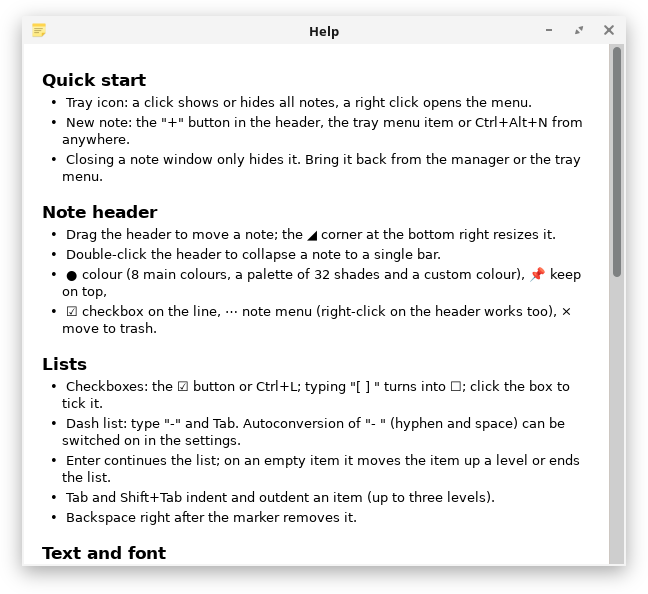
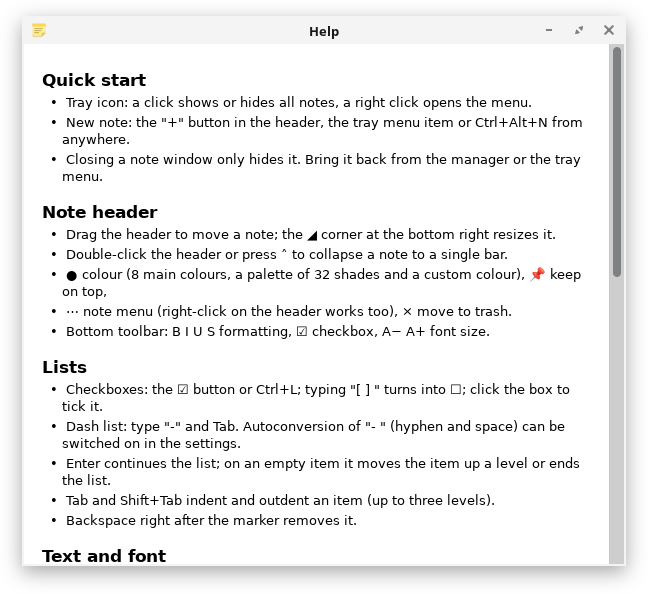
Note toolbar: formatting, checkbox and font size buttons at the bottom, collapse button in the header
The header keeps +, colour, pin, title, menu and close, plus a drawn chevron
that collapses and expands the note. The bottom toolbar (B I U S, checkbox,
A- A+) is dimmed and brightens on hover; the resize corner sits at its right.
Help, README and screenshots are updated.

diff --git a/indicator_sticky_notes/note_window.py b/indicator_sticky_notes/note_window.py
@@ -91,7 +91,7 @@ class NoteWindow(Gtk.Window):
         self.card.pack_start(self._build_bar(), False, False, 0)
         self.body = self._build_body()
         self.card.pack_start(self.body, True, True, 0)
-        self.grip = self._build_grip()
+        self.grip = self._build_footer()
         self.card.pack_start(self.grip, False, False, 0)
         self.add(self.card)
 
@@ -150,10 +150,6 @@ class NoteWindow(Gtk.Window):
         self.pin_button.connect("clicked", lambda _b: self.set_pinned(not self.note.pinned))
         bar.pack_start(self.pin_button, False, False, 0)
 
-        check = self._flat_button("☑", _("Чекбокс в строке (Ctrl+L)"))
-        check.connect("clicked", lambda _b: self.toggle_checklist())
-        bar.pack_start(check, False, False, 0)
-
         self.title_label = Gtk.Label(xalign=0, hexpand=True, ellipsize=Pango.EllipsizeMode.END)
         self.title_label.get_style_context().add_class("title")
         bar.pack_start(self.title_label, True, True, 0)
@@ -162,6 +158,16 @@ class NoteWindow(Gtk.Window):
         delete.get_style_context().add_class("danger")
         delete.connect("clicked", lambda _b: self.app.delete_note(self.note.id))
         bar.pack_end(delete, False, False, 0)
+
+        self.collapse_button = self._flat_button("", _("Свернуть"))
+        # Шеврон рисуем сами: символы ▴/˄ в разных шрифтах разного размера и высоты.
+        self.collapse_button.remove(self.collapse_button.get_child())
+        chevron = Gtk.DrawingArea()
+        chevron.set_size_request(12, 12)
+        chevron.connect("draw", self._draw_chevron)
+        self.collapse_button.add(chevron)
+        self.collapse_button.connect("clicked", lambda _b: self.set_collapsed(not self.note.collapsed))
+        bar.pack_end(self.collapse_button, False, False, 0)
 
         self.menu_button = self._flat_button("⋯", _("Меню заметки"))
         self.menu_button.connect("clicked", lambda _b: self.popup_menu())
@@ -218,10 +224,42 @@ class NoteWindow(Gtk.Window):
         overlay.set_overlay_pass_through(self.placeholder, True)
         return overlay
 
+    def _build_footer(self):
+        """Нижняя панель: форматирование, чекбокс, размер шрифта и уголок растягивания."""
+        footer = Gtk.Box(spacing=0)
+        footer.get_style_context().add_class("footer")
+        # Кнопки не забирают фокус: иначе пропадёт выделение, к которому применяется формат.
+        for name, label, markup in (
+            ("bold", "B", "<b>B</b>"),
+            ("italic", "I", "<i>I</i>"),
+            ("underline", "U", "<u>U</u>"),
+            ("strike", "S", "<s>S</s>"),
+        ):
+            button = self._tool_button(markup, _(FORMAT_LABELS[name]))
+            button.connect("clicked", lambda _b, n=name: self.toggle_format(n))
+            footer.pack_start(button, False, False, 0)
+        footer.pack_start(Gtk.Separator(orientation=Gtk.Orientation.VERTICAL), False, False, 4)
+        check = self._tool_button("☑", _("Чекбокс в строке (Ctrl+L)"))
+        check.connect("clicked", lambda _b: self.toggle_checklist())
+        footer.pack_start(check, False, False, 0)
+        for markup, tooltip, delta in (("A<sup>−</sup>", _("Мельче (Ctrl+-)"), -1),
+                                       ("A<sup>+</sup>", _("Крупнее (Ctrl++)"), 1)):
+            button = self._tool_button(markup, tooltip)
+            button.connect("clicked", lambda _b, d=delta: self.change_font(d))
+            footer.pack_start(button, False, False, 0)
+        footer.pack_end(self._build_grip(), False, False, 0)
+        return footer
+
+    def _tool_button(self, markup, tooltip):
+        button = self._flat_button("", tooltip)
+        button.get_child().set_markup(markup)
+        button.set_focus_on_click(False)
+        return button
+
     def _build_grip(self):
         grip = Gtk.EventBox()
         grip.set_visible_window(False)
-        grip.set_size_request(-1, 16)
+        grip.set_size_request(22, -1)
         grip.add_events(
             Gdk.EventMask.BUTTON_PRESS_MASK
             | Gdk.EventMask.ENTER_NOTIFY_MASK
@@ -232,7 +270,7 @@ class NoteWindow(Gtk.Window):
         # окно заметки по входу/выходу: иначе он остался бы на всей заметке.
         grip.connect("enter-notify-event", lambda *_a: self._set_window_cursor("se-resize"))
         grip.connect("leave-notify-event", lambda *_a: self._set_window_cursor(None))
-        label = Gtk.Label(label="◢", halign=Gtk.Align.END, margin_end=6)
+        label = Gtk.Label(label="◢", halign=Gtk.Align.END, valign=Gtk.Align.END, margin_end=6)
         label.get_style_context().add_class("grip")
         grip.add(label)
         return grip
@@ -403,6 +441,25 @@ class NoteWindow(Gtk.Window):
         else:
             self.resize(max(self.note.width, MIN_WIDTH), max(self.note.height, MIN_HEIGHT))
 
+    def _draw_chevron(self, area, cr):
+        """Галочка ˄ (свернуть) или ˅ (развернуть) цветом и толщиной как у ×."""
+        color = self.collapse_button.get_style_context().get_color(
+            self.collapse_button.get_state_flags()
+        )
+        width, height = area.get_allocated_width(), area.get_allocated_height()
+        half, rise = 5, 3
+        cx, cy = width / 2, height / 2
+        tip = -rise if not self.note.collapsed else rise
+        cr.set_source_rgba(color.red, color.green, color.blue, color.alpha)
+        cr.set_line_width(2)
+        cr.set_line_cap(1)  # cairo.LINE_CAP_ROUND
+        cr.set_line_join(1)  # cairo.LINE_JOIN_ROUND
+        cr.move_to(cx - half, cy - tip)
+        cr.line_to(cx, cy + tip)
+        cr.line_to(cx + half, cy - tip)
+        cr.stroke()
+        return False
+
     def _update_collapsed_class(self):
         """У свёрнутой заметки скруглены все углы шапки, а не только верхние."""
         ctx = self.card.get_style_context()
@@ -410,6 +467,8 @@ class NoteWindow(Gtk.Window):
             ctx.add_class("collapsed")
         else:
             ctx.remove_class("collapsed")
+        self.collapse_button.queue_draw()
+        self.collapse_button.set_tooltip_text(_("Развернуть") if self.note.collapsed else _("Свернуть"))
 
     # --- заголовок, прозрачность, размер шрифта, группа ---
 

diff --git a/indicator_sticky_notes/translations_en.py b/indicator_sticky_notes/translations_en.py
@@ -84,9 +84,10 @@ EN = {
     'Новая заметка: кнопка «+» в шапке, пункт меню трея или Ctrl+Alt+N из любого места.': 'New note: the "+" button in the header, the tray menu item or Ctrl+Alt+N from anywhere.',
     'Закрытие окна заметки только прячет её. Вернуть можно из менеджера или меню трея.': 'Closing a note window only hides it. Bring it back from the manager or the tray menu.',
     'Перетащите шапку, чтобы переместить заметку; угол ◢ внизу справа меняет размер.': 'Drag the header to move a note; the ◢ corner at the bottom right resizes it.',
-    'Двойной щелчок по шапке сворачивает заметку в одну полоску.': 'Double-click the header to collapse a note to a single bar.',
+    'Двойной щелчок по шапке или кнопка ˄ сворачивает заметку в одну полоску.': 'Double-click the header or press ˄ to collapse a note to a single bar.',
     '● цвет (8 основных, палитра из 32 оттенков и свой цвет), 📌 закрепить поверх окон,': '● colour (8 main colours, a palette of 32 shades and a custom colour), 📌 keep on top,',
-    '☑ чекбокс в строке, ⋯ меню заметки (правая кнопка по шапке тоже), × в корзину.': '☑ checkbox on the line, ⋯ note menu (right-click on the header works too), × move to trash.',
+    '⋯ меню заметки (правая кнопка по шапке тоже), × в корзину.': '⋯ note menu (right-click on the header works too), × move to trash.',
+    'Внизу панель: B I U S форматирование, ☑ чекбокс, A− A+ размер шрифта.': 'Bottom toolbar: B I U S formatting, ☑ checkbox, A− A+ font size.',
     'Чекбоксы: кнопка ☑ или Ctrl+L; набор «[ ] » превращается в ☐; клик по квадратику ставит галочку.': 'Checkboxes: the ☑ button or Ctrl+L; typing "[ ] " turns into ☐; click the box to tick it.',
     'Список с длинным тире: наберите «-» и Tab. Автозамену по «- » (дефис и пробел) можно включить в настройках.': 'Dash list: type "-" and Tab. Autoconversion of "- " (hyphen and space) can be switched on in the settings.',
     'Enter продолжает список; на пустом пункте выносит его выше или заканчивает список.': 'Enter continues the list; on an empty item it moves the item up a level or ends the list.',
@@ -161,6 +162,8 @@ EN = {
     'Напишите что-нибудь…': 'Write something…',
     'Открепить': 'Unpin',
     'Развернуть': 'Expand',
+    'Мельче (Ctrl+-)': 'Smaller (Ctrl+-)',
+    'Крупнее (Ctrl++)': 'Larger (Ctrl++)',
     'Свернуть': 'Collapse',
     'Свой цвет': 'Custom colour',
     'По умолчанию ({size} пт)   Ctrl+0': 'Default ({size} pt)   Ctrl+0',

diff --git a/tests/test_gui.py b/tests/test_gui.py
@@ -516,6 +516,36 @@ class GuiStage2Test(GuiTest):
         self.assertFalse(window._settling)
         self.assertIsNone(window._settle_source)
 
+    def test_footer_buttons_format_selection(self):
+        (window,) = self.start({"text": "hello world"})
+        buffer = window.view.get_buffer()
+        buffer.select_range(buffer.get_start_iter(), buffer.get_iter_at_offset(5))
+        bold = window.grip.get_children()[0]
+        self.assertFalse(bold.get_focus_on_click())  # выделение не должно пропасть
+        bold.clicked()
+        self.assertIn([0, 5, "bold"], window.collect_formats())
+
+    def test_footer_font_buttons(self):
+        (window,) = self.start({"text": "a"})
+        size = window.effective_font_size()
+        buttons = [b for b in window.grip.get_children() if isinstance(b, Gtk.Button)]
+        buttons[-1].clicked()  # A+
+        self.assertEqual(window.effective_font_size(), size + 1)
+        buttons[-2].clicked()  # A−
+        self.assertEqual(window.effective_font_size(), size)
+
+    def test_collapse_button(self):
+        (window,) = self.start({"text": "a"})
+        window.collapse_button.clicked()
+        pump()
+        self.assertTrue(window.note.collapsed)
+        self.assertEqual(window.collapse_button.get_tooltip_text(), "Развернуть")
+        self.assertFalse(window.grip.get_visible())
+        window.collapse_button.clicked()
+        pump()
+        self.assertFalse(window.note.collapsed)
+        self.assertEqual(window.collapse_button.get_tooltip_text(), "Свернуть")
+
     def test_collapsed_state_persists(self):
         (window,) = self.start({"text": "a"})
         window.set_collapsed(True)

diff --git a/indicator_sticky_notes/help_window.py b/indicator_sticky_notes/help_window.py
@@ -18,9 +18,10 @@ HELP_SECTIONS = (
     )),
     (N_("Шапка заметки"), (
         N_("Перетащите шапку, чтобы переместить заметку; угол ◢ внизу справа меняет размер."),
-        N_("Двойной щелчок по шапке сворачивает заметку в одну полоску."),
+        N_("Двойной щелчок по шапке или кнопка ˄ сворачивает заметку в одну полоску."),
         N_("● цвет (8 основных, палитра из 32 оттенков и свой цвет), 📌 закрепить поверх окон,"),
-        N_("☑ чекбокс в строке, ⋯ меню заметки (правая кнопка по шапке тоже), × в корзину."),
+        N_("⋯ меню заметки (правая кнопка по шапке тоже), × в корзину."),
+        N_("Внизу панель: B I U S форматирование, ☑ чекбокс, A− A+ размер шрифта."),
     )),
     (N_("Списки"), (
         N_("Чекбоксы: кнопка ☑ или Ctrl+L; набор «[ ] » превращается в ☐; клик по квадратику ставит галочку."),

diff --git a/indicator_sticky_notes/theme.py b/indicator_sticky_notes/theme.py
@@ -55,6 +55,14 @@ window.sticky { background-color: rgba(0,0,0,0); }
 .note .placeholder { font-style: italic; }
 .note .bar label.title { font-size: 11px; font-weight: bold; margin: 0 4px; }
 .note .grip { font-size: 12px; }
+.note .footer { padding: 2px 4px 2px 8px; opacity: 0.55; transition: opacity 150ms ease-in-out; }
+.note .footer:hover { opacity: 1; }
+.note .footer button {
+    min-width: 24px; min-height: 22px; padding: 0 2px;
+    border: none; border-radius: 6px; box-shadow: none; background: none;
+    font-size: 12px;
+}
+.note .footer separator { margin: 4px 0; }
 
 .swatch {
     min-width: 24px; min-height: 24px; padding: 0; border-radius: 12px;
@@ -96,6 +104,10 @@ def note_css(cls, body, bar):
 .note.{cls} .placeholder {{ color: {_rgba(text, 0.45)}; }}
 .note.{cls} .bar label.title {{ color: {_rgba(text, 0.80)}; }}
 .note.{cls} .grip {{ color: {_rgba(text, 0.40)}; }}
+.note.{cls} .footer {{ border-top: 1px solid {_rgba(text, 0.10)}; }}
+.note.{cls} .footer button {{ color: {_rgba(text, 0.70)}; }}
+.note.{cls} .footer button:hover {{ background-color: {_rgba(text, 0.14)}; color: {text}; }}
+.note.{cls} .footer separator {{ background-color: {_rgba(text, 0.15)}; }}
 """
 
 

diff --git a/README.md b/README.md
@@ -82,10 +82,11 @@ indicator-sticky-notes
 
 ### Пишите как удобно
 
+- **Нижняя панель** с кнопками B I U S, ☑ и A− A+ (видна приглушённо, ярче при наведении)
 - **Форматирование:** жирный `Ctrl+B`, курсив `Ctrl+I`, подчёркнутый `Ctrl+U`, зачёркнутый `Ctrl+Shift+X`. Сочетания работают и в русской раскладке
 - **Чекбоксы:** кнопка ☑ или `Ctrl+L`, набор `[ ] ` превращается в ☐, Enter продолжает список, клик по квадратику ставит галочку, выполненные пункты зачёркиваются
 - **Списки с длинным тире, как в Word:** наберите `-` и `Tab` (автозамену по `- ` и пробелу можно включить в настройках; по умолчанию дефис остаётся дефисом), Enter продолжает список (на пустом пункте выносит на уровень выше или заканчивает список), `Tab` и `Shift+Tab` вкладывают пункт глубже и выше (до трёх уровней), Backspace сразу за маркером убирает его. Перенесённые строки выравниваются под текстом
-- **Заголовок** заметки, **закрепление** поверх всех окон (📌), **сворачивание** двойным щелчком по шапке
+- **Заголовок** заметки, **закрепление** поверх всех окон (📌), **сворачивание** кнопкой ˄ или двойным щелчком по шапке
 - Размер шрифта: **ползунок прямо в меню** `⋯` → «Размер шрифта» (отметка на дорожке — размер по умолчанию), а также `Ctrl++`, `Ctrl+-`, `Ctrl+0` или `Ctrl` + колесо мыши
 
 <div align="center">

diff --git a/README.en.md b/README.en.md
@@ -82,10 +82,11 @@ The app restarts by itself and your notes stay where they were.
 
 ### Write the way you like
 
+- **Bottom toolbar** with B I U S, ☑ and A− A+ buttons (dimmed, brighter on hover)
 - **Formatting:** bold `Ctrl+B`, italic `Ctrl+I`, underline `Ctrl+U`, strikethrough `Ctrl+Shift+X`. Shortcuts work in any keyboard layout
 - **Checkboxes:** the ☑ button or `Ctrl+L`, typing `[ ] ` becomes ☐, Enter continues the list, a click on the box ticks it and finished items are struck through
 - **Word-style dash lists:** type `-` and `Tab` (autoconversion of `- ` plus space can be switched on in the settings; by default a hyphen stays a hyphen). Enter continues the list (on an empty item it goes up a level or ends the list), `Tab` and `Shift+Tab` indent and outdent (up to three levels), Backspace right after the marker removes it. Wrapped lines align under the text
-- **Title**, **keep on top** (📌), **collapse** with a double click on the header
+- **Title**, **keep on top** (📌), **collapse** with the ˄ button or a double click on the header
 - Font size: a **slider right in the menu** `⋯` → "Font size" (the mark on the track is the default size), plus `Ctrl++`, `Ctrl+-`, `Ctrl+0` or `Ctrl` + mouse wheel
 
 <div align="center">
